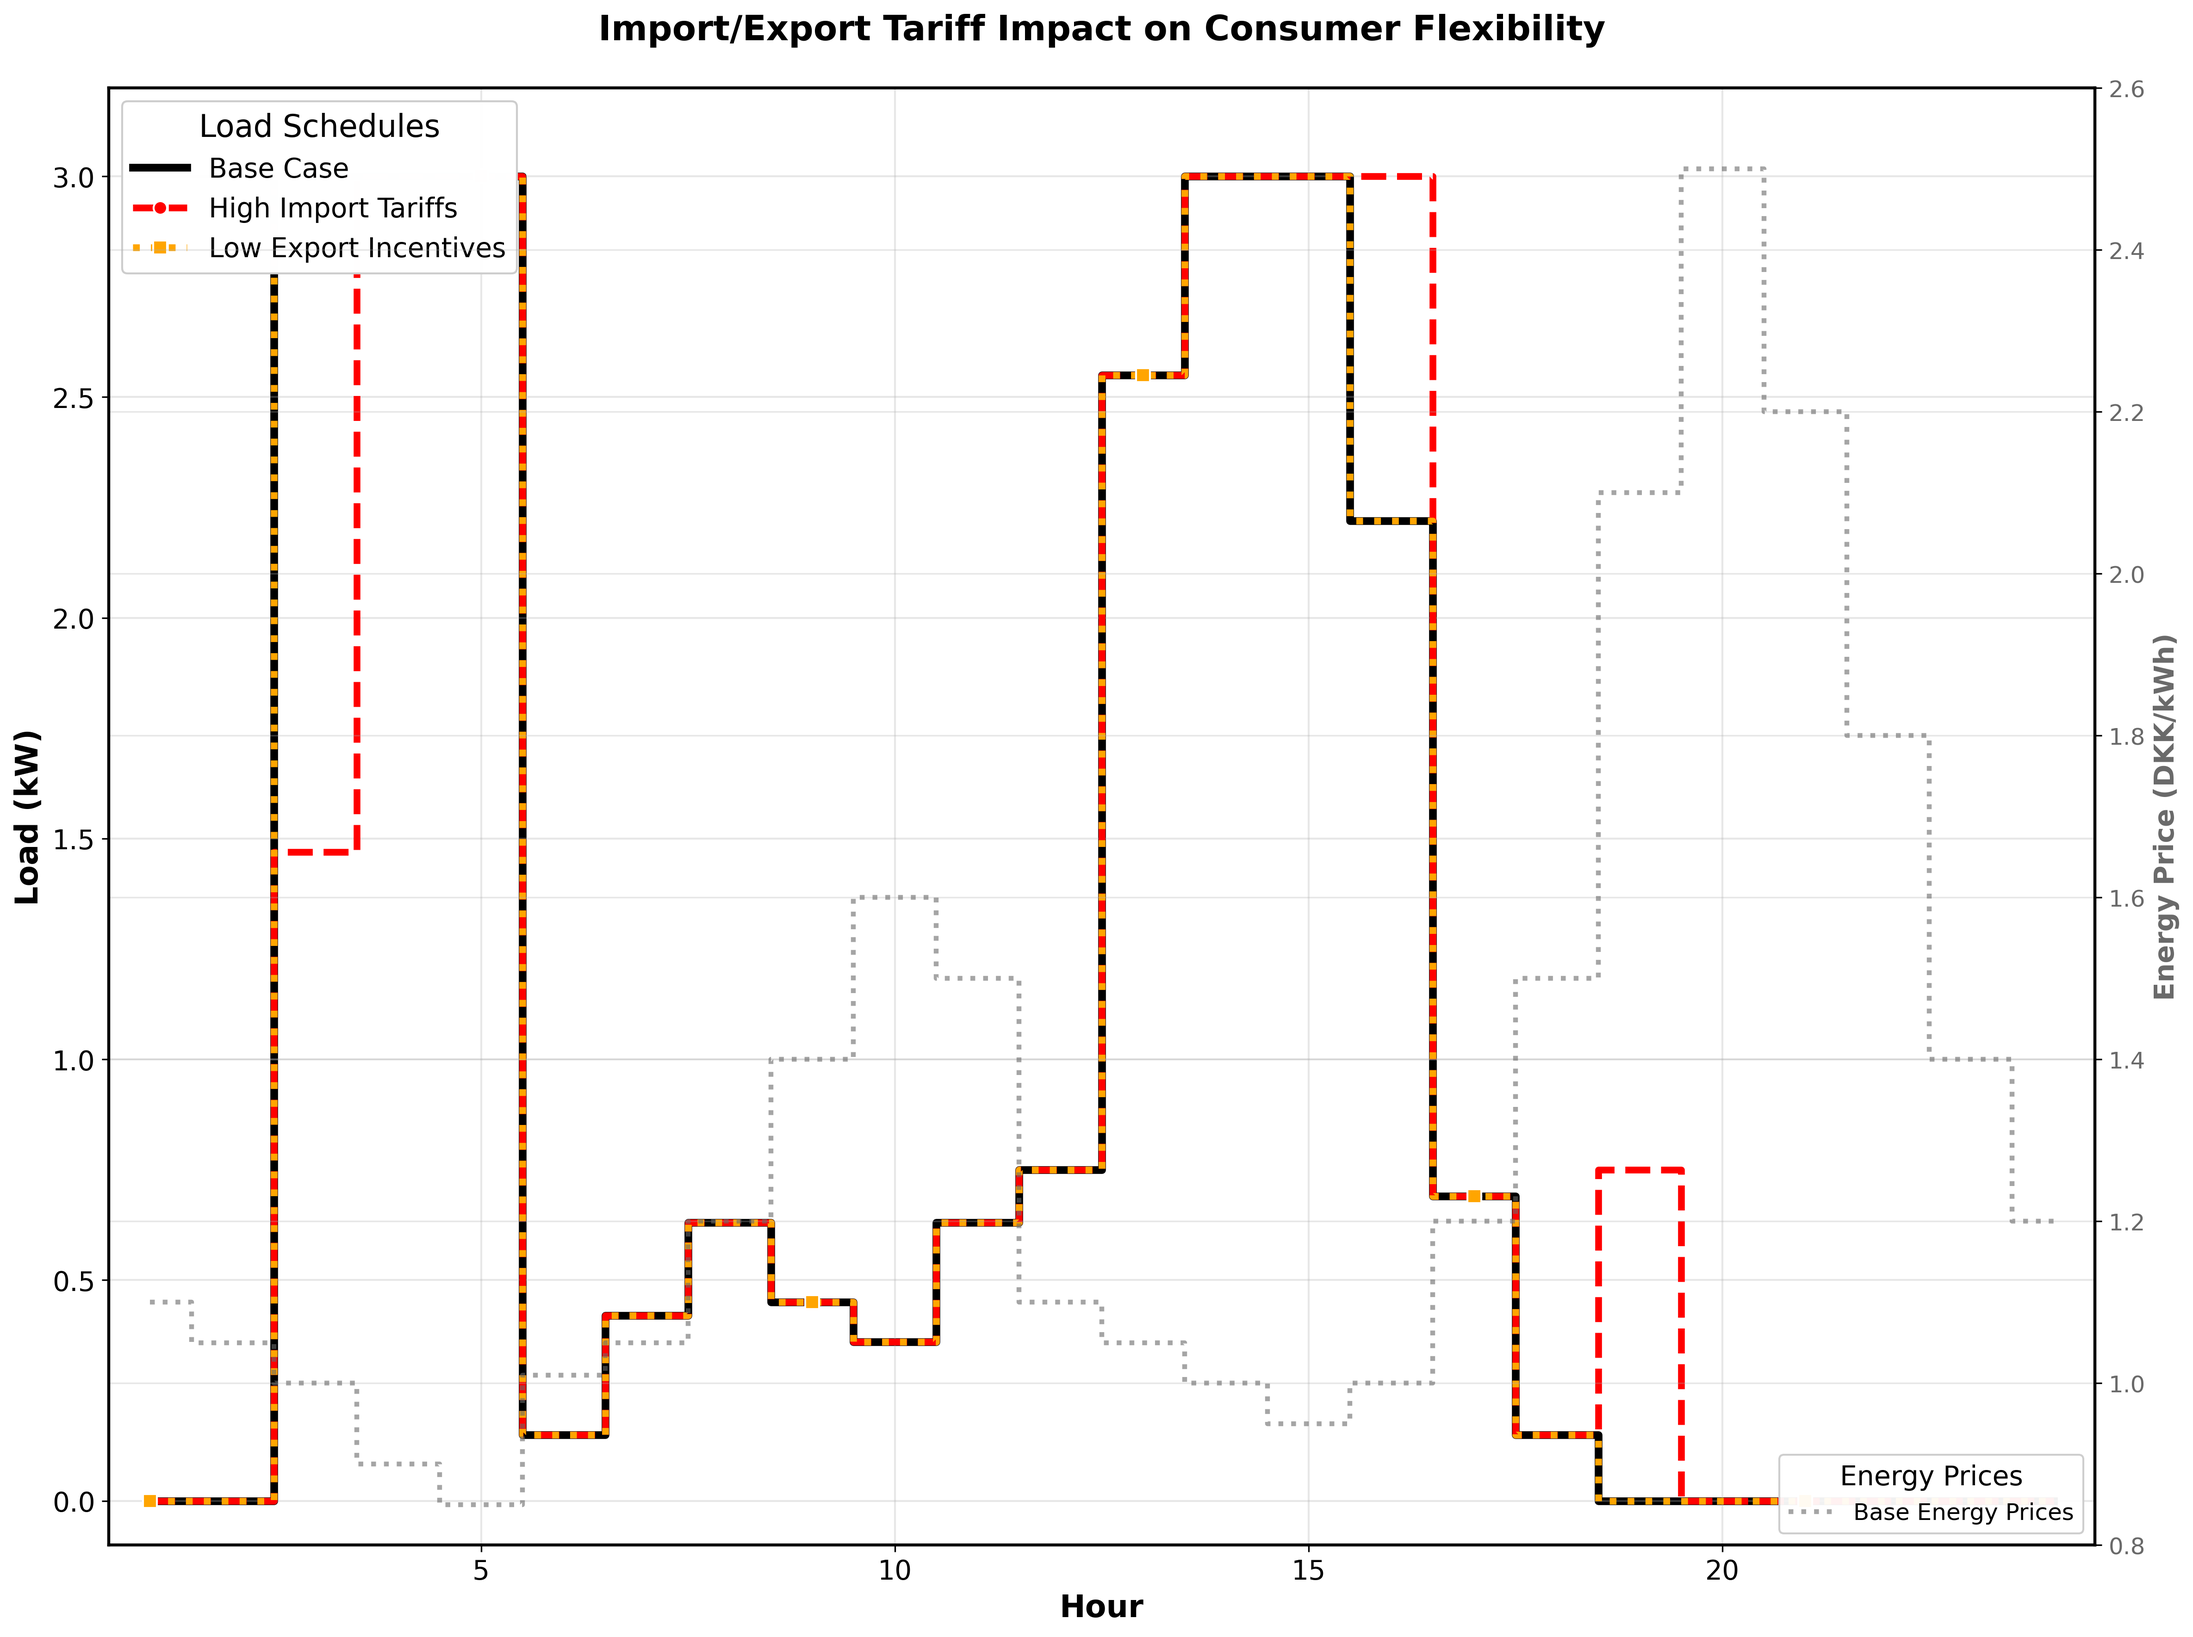
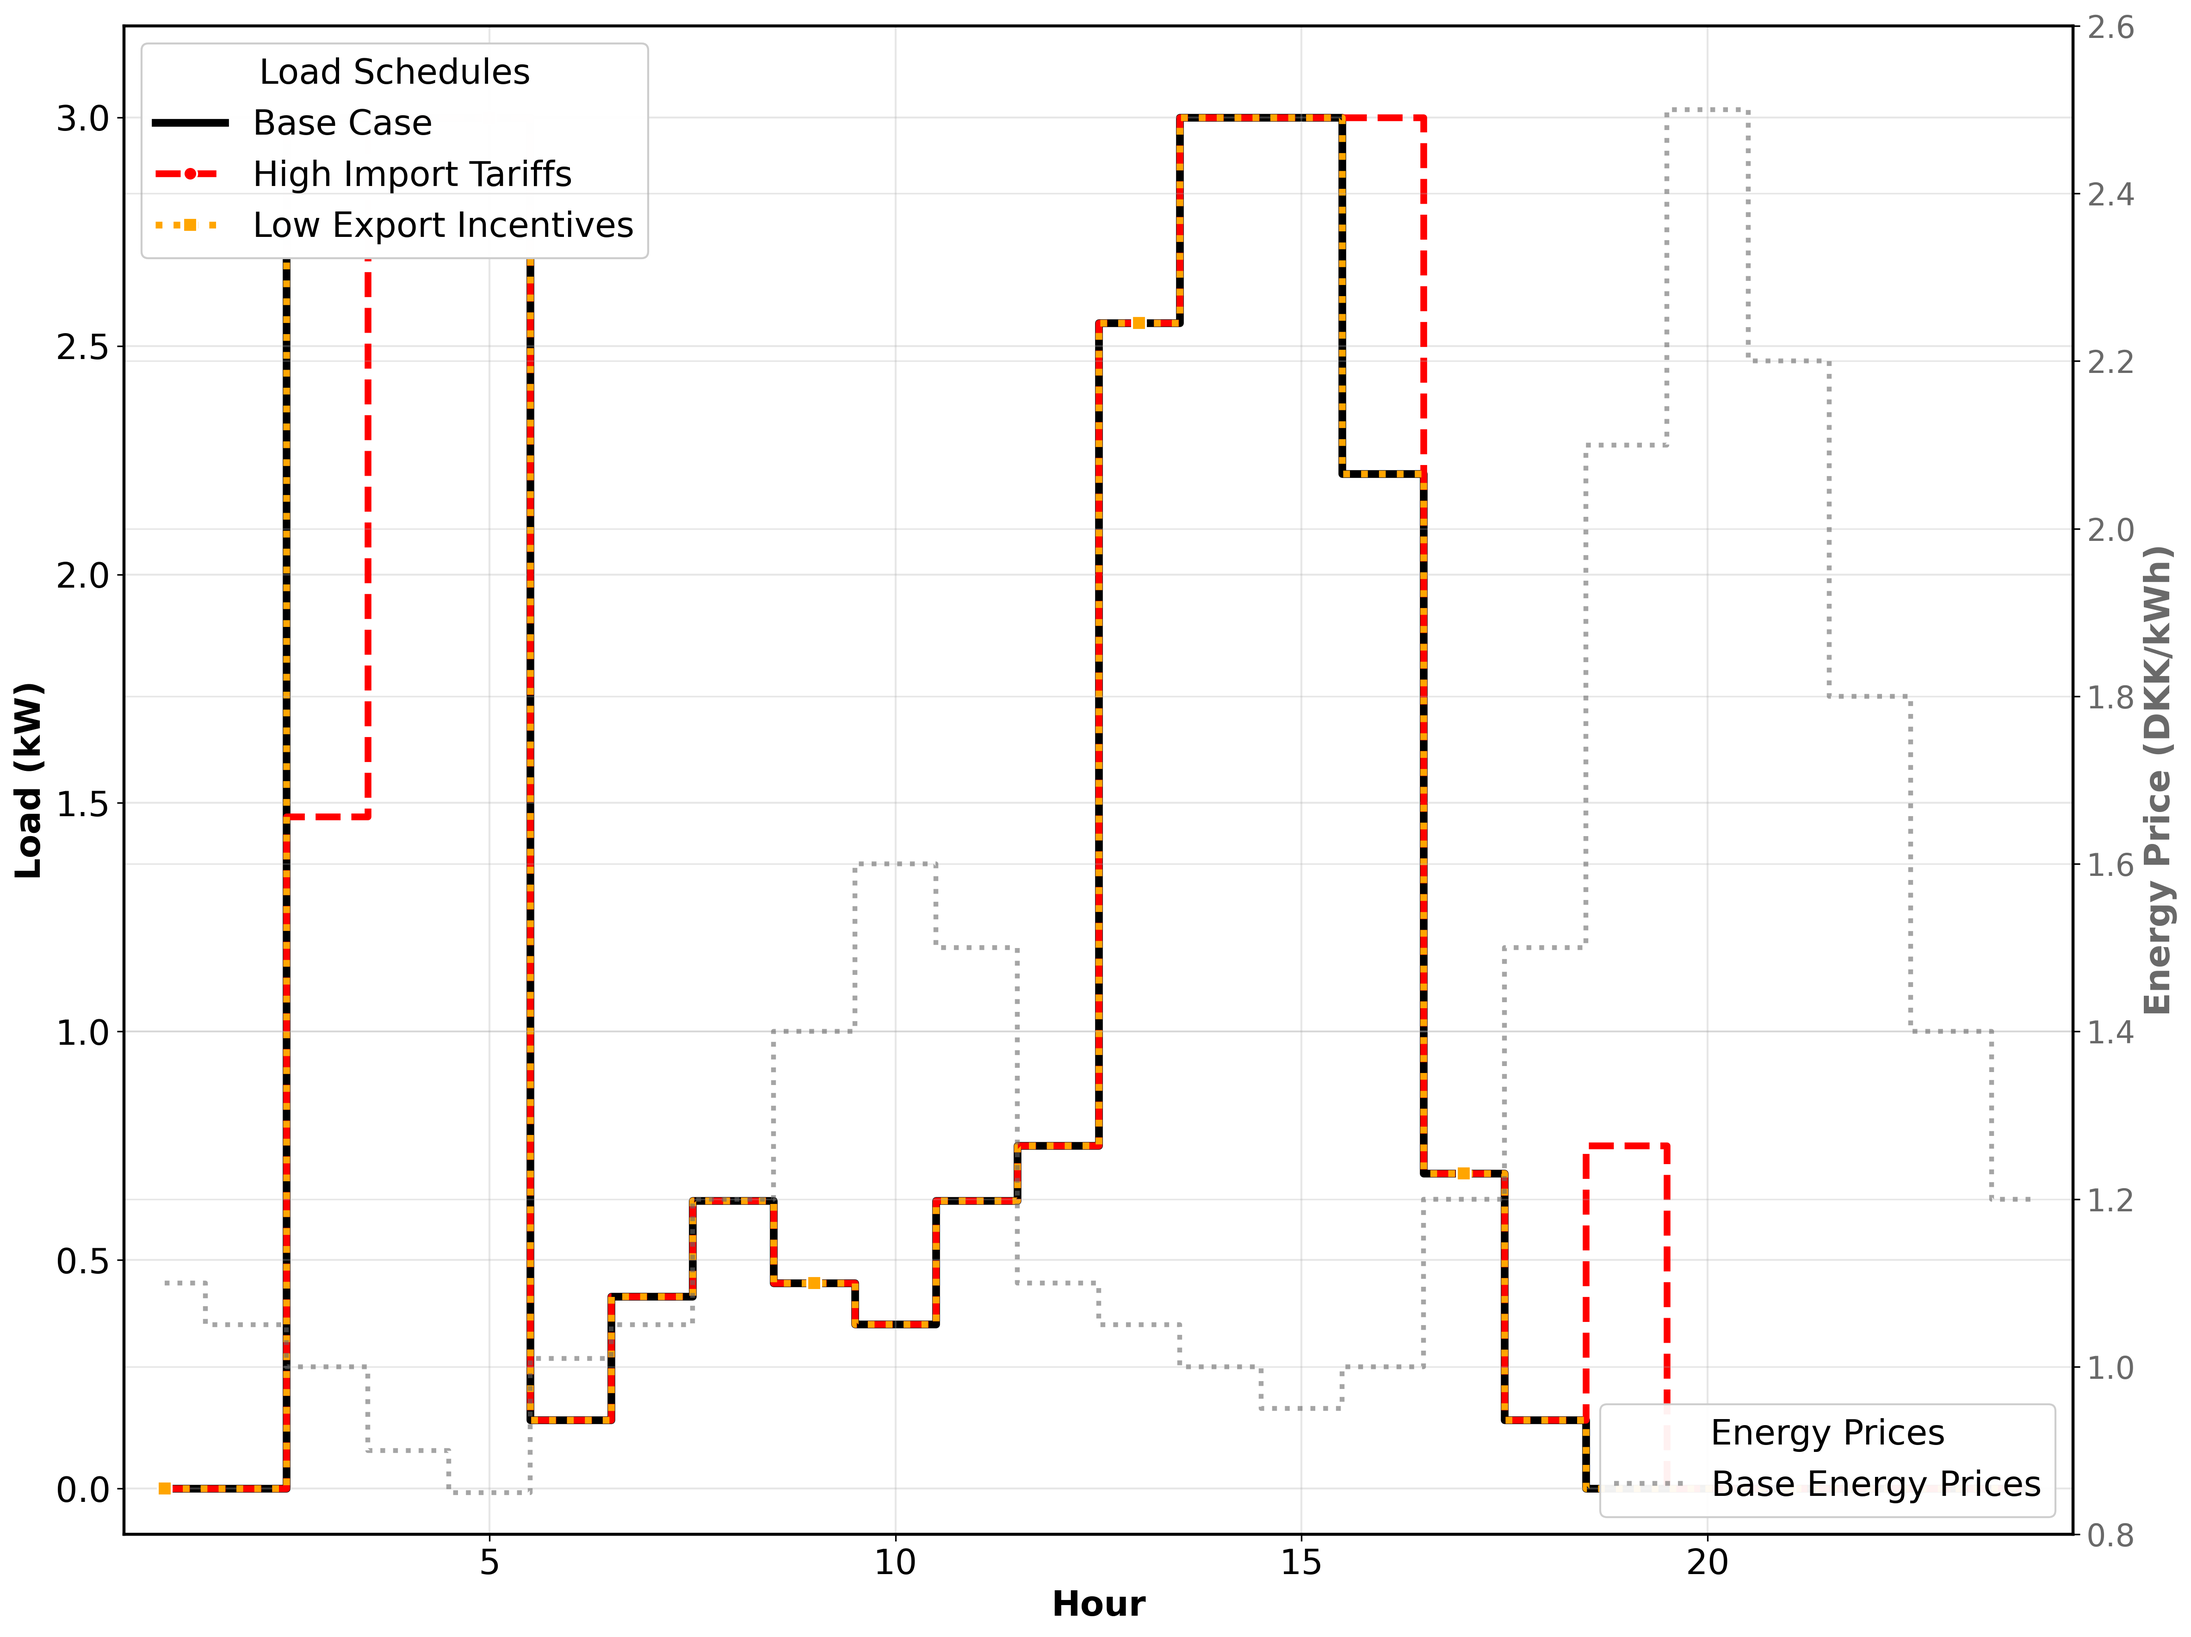
Final updates to helgu_test branch - ready for merge to main

diff --git a/src/scripts/q1a_v.py b/src/scripts/q1a_v.py
@@ -381,8 +381,8 @@ def create_separate_q1v_plots(all_results, output_dir):
         'xtick.labelsize': 12,
         'ytick.labelsize': 12,
         'axes.titlesize': 16,
-        'axes.labelsize': 14,
-        'legend.fontsize': 12
+        'axes.labelsize': 16,
+        'legend.fontsize': 16
     })
     
     scenarios = list(all_results.keys())
@@ -401,8 +401,8 @@ def create_separate_q1v_plots(all_results, output_dir):
     bars1 = ax1.bar(scenario_names, costs, color=colors, alpha=0.8, edgecolor='black', linewidth=2)
     ax1.set_ylabel('Total Daily Cost (DKK)', fontsize=16, fontweight='bold')
     ax1.set_title('Total Daily Cost by Scenario', fontsize=18, fontweight='bold', pad=25)
-    ax1.tick_params(axis='x', rotation=45, labelsize=14)
-    ax1.tick_params(axis='y', labelsize=14)
+    ax1.tick_params(axis='x', rotation=45, labelsize=16)
+    ax1.tick_params(axis='y', labelsize=16)
     ax1.grid(True, alpha=0.3, linewidth=1)
     
     # Add value labels on bars
@@ -425,20 +425,20 @@ def create_separate_q1v_plots(all_results, output_dir):
     ax2.set_ylabel('Energy (kWh)', fontsize=16, fontweight='bold')
     ax2.set_title('Import vs Export by Scenario', fontsize=18, fontweight='bold', pad=25)
     ax2.set_xticks(x_pos)
-    ax2.set_xticklabels(scenario_names, rotation=45, fontsize=14)
-    ax2.tick_params(axis='y', labelsize=14)
-    ax2.legend(fontsize=14, loc='upper right')
+    ax2.set_xticklabels(scenario_names, rotation=45, fontsize=16)
+    ax2.tick_params(axis='y', labelsize=16)
+    ax2.legend(fontsize=16, loc='upper right')
     ax2.grid(True, alpha=0.3, linewidth=1)
     
     # Add value labels
     for bar, val in zip(bars_import, imports):
         ax2.text(bar.get_x() + bar.get_width()/2, bar.get_height() + 0.2, 
-                f'{val:.1f}', ha='center', va='bottom', fontweight='bold', fontsize=12)
+                f'{val:.1f}', ha='center', va='bottom', fontweight='bold', fontsize=18)
     for bar, val in zip(bars_export, exports):
         if val > 0.1:  # Only show label if export is significant
             ax2.text(bar.get_x() + bar.get_width()/2, bar.get_height() + 0.1, 
-                    f'{val:.1f}', ha='center', va='bottom', fontweight='bold', fontsize=12)
-    
+                    f'{val:.1f}', ha='center', va='bottom', fontweight='bold', fontsize=18)
+
     plt.tight_layout()
     plt.savefig(output_dir / 'Q1av_Import_Export.png', dpi=300, bbox_inches='tight')
     plt.show()
@@ -450,8 +450,8 @@ def create_separate_q1v_plots(all_results, output_dir):
     bars3 = ax3.bar(scenario_names, cost_diffs, color=colors_impact, alpha=0.8, edgecolor='black', linewidth=2)
     ax3.set_ylabel('Cost Difference from Base (DKK)', fontsize=16, fontweight='bold')
     ax3.set_title('Cost Impact vs Base Case', fontsize=18, fontweight='bold', pad=25)
-    ax3.tick_params(axis='x', rotation=45, labelsize=14)
-    ax3.tick_params(axis='y', labelsize=14)
+    ax3.tick_params(axis='x', rotation=45, labelsize=16)
+    ax3.tick_params(axis='y', labelsize=16)
     ax3.axhline(y=0, color='black', linestyle='-', alpha=0.8, linewidth=3)
     ax3.grid(True, alpha=0.3, linewidth=1)
     
@@ -474,10 +474,10 @@ def create_tariff_focused_comparison(all_results, output_dir):
     plt.rcParams.update({
         'font.size': 14,
         'axes.titlesize': 18,
-        'axes.labelsize': 16,
-        'xtick.labelsize': 14,
-        'ytick.labelsize': 14,
-        'legend.fontsize': 14
+        'axes.labelsize': 18,
+        'xtick.labelsize': 18,
+        'ytick.labelsize': 18,
+        'legend.fontsize': 18
     })
     
     fig, ax = plt.subplots(figsize=(16, 12))
@@ -531,26 +531,26 @@ def create_tariff_focused_comparison(all_results, output_dir):
                      color='dimgray', linewidth=2.5, alpha=0.6, 
                      linestyle=':', where='mid', zorder=2)
     
-    ax.set_xlabel('Hour', fontsize=16, fontweight='bold')
-    ax.set_ylabel('Load (kW)', fontsize=16, fontweight='bold')
+    ax.set_xlabel('Hour', fontsize=18, fontweight='bold')
+    ax.set_ylabel('Load (kW)', fontsize=18, fontweight='bold')
     ax.set_title('Import/Export Tariff Impact on Consumer Flexibility', fontsize=18, fontweight='bold', pad=25)
     ax.set_xlim(0.5, 24.5)
     ax.set_ylim(-0.1, 3.2)
     ax.grid(True, alpha=0.3, linewidth=1)
-    ax.tick_params(axis='both', labelsize=14)
+    ax.tick_params(axis='both', labelsize=18)
     
     # Configure price axis
-    ax_price.set_ylabel('Energy Price (DKK/kWh)', fontsize=14, color='dimgray', fontweight='bold')
-    ax_price.tick_params(axis='y', labelcolor='dimgray', labelsize=12)
+    ax_price.set_ylabel('Energy Price (DKK/kWh)', fontsize=18, color='dimgray', fontweight='bold')
+    ax_price.tick_params(axis='y', labelcolor='dimgray', labelsize=16)
     ax_price.set_ylim(0.8, 2.6)
     
     # Create legends with enhanced styling
-    load_legend = ax.legend(fontsize=14, loc='upper left',
-                           title='Load Schedules', title_fontsize=16, 
+    load_legend = ax.legend(fontsize=18, loc='upper left',
+                           title='Load Schedules', title_fontsize=18, 
                            framealpha=0.95)
-    
-    price_legend = ax_price.legend(['Base Energy Prices'], fontsize=12, loc='lower right', 
-                                  title='Energy Prices', title_fontsize=14, 
+
+    price_legend = ax_price.legend(['Base Energy Prices'], fontsize=18, loc='lower right', 
+                                  title='Energy Prices', title_fontsize=18, 
                                   framealpha=0.95)
     
     ax.add_artist(load_legend)
@@ -566,12 +566,12 @@ def create_pricing_mechanism_comparison(all_results, output_dir):
     
     # Set enhanced styling
     plt.rcParams.update({
-        'font.size': 14,
+        'font.size': 18,
         'axes.titlesize': 18,
-        'axes.labelsize': 16,
-        'xtick.labelsize': 14,
-        'ytick.labelsize': 14,
-        'legend.fontsize': 14
+        'axes.labelsize': 18,
+        'xtick.labelsize': 18,
+        'ytick.labelsize': 18,
+        'legend.fontsize': 18
     })
     
     fig, ax = plt.subplots(figsize=(16, 12))
@@ -631,18 +631,18 @@ def create_pricing_mechanism_comparison(all_results, output_dir):
         
         price_labels.append(f'{scenario_name} Prices')
     
-    ax.set_xlabel('Hour', fontsize=16, fontweight='bold')
-    ax.set_ylabel('Load (kW)', fontsize=16, fontweight='bold')
+    ax.set_xlabel('Hour', fontsize=18, fontweight='bold')
+    ax.set_ylabel('Load (kW)', fontsize=18, fontweight='bold')
     ax.set_title('Time-Varying Pricing Impact on Consumer Flexibility', fontsize=18, fontweight='bold', pad=25)
     ax.set_xlim(0.5, 24.5)
     ax.set_ylim(-0.1, 3.2)
     ax.grid(True, alpha=0.3, linewidth=1)
-    ax.tick_params(axis='both', labelsize=14)
+    ax.tick_params(axis='both', labelsize=18)
     
     # Configure price axis with extended range for peak prices
-    ax_price.set_ylabel('Energy Price (DKK/kWh)', fontsize=14, color='dimgray', fontweight='bold')
-    ax_price.tick_params(axis='y', labelcolor='dimgray', labelsize=12)
-    
+    ax_price.set_ylabel('Energy Price (DKK/kWh)', fontsize=16, color='dimgray', fontweight='bold')
+    ax_price.tick_params(axis='y', labelcolor='dimgray', labelsize=18)
+
     # Dynamic scaling for higher peak prices
     all_prices = []
     for scenario_key in scenarios_to_plot:
@@ -657,12 +657,12 @@ def create_pricing_mechanism_comparison(all_results, output_dir):
     ax.axvspan(7, 19, alpha=0.15, color='red', zorder=0, label='Peak Hours')
     
     # Create legends with enhanced styling
-    load_legend = ax.legend(fontsize=14, loc='upper left',
-                           title='Load Schedules', title_fontsize=16, 
+    load_legend = ax.legend(fontsize=16, loc='upper left',
+                           title='Load Schedules', title_fontsize=18, 
                            framealpha=0.95)
-    
-    price_legend = ax_price.legend(price_labels, fontsize=12, loc='lower right', 
-                                  title='Energy Prices', title_fontsize=14, 
+
+    price_legend = ax_price.legend(price_labels, fontsize=16, loc='lower right', 
+                                  title='Energy Prices', title_fontsize=18, 
                                   framealpha=0.95)
     
     ax.add_artist(load_legend)
